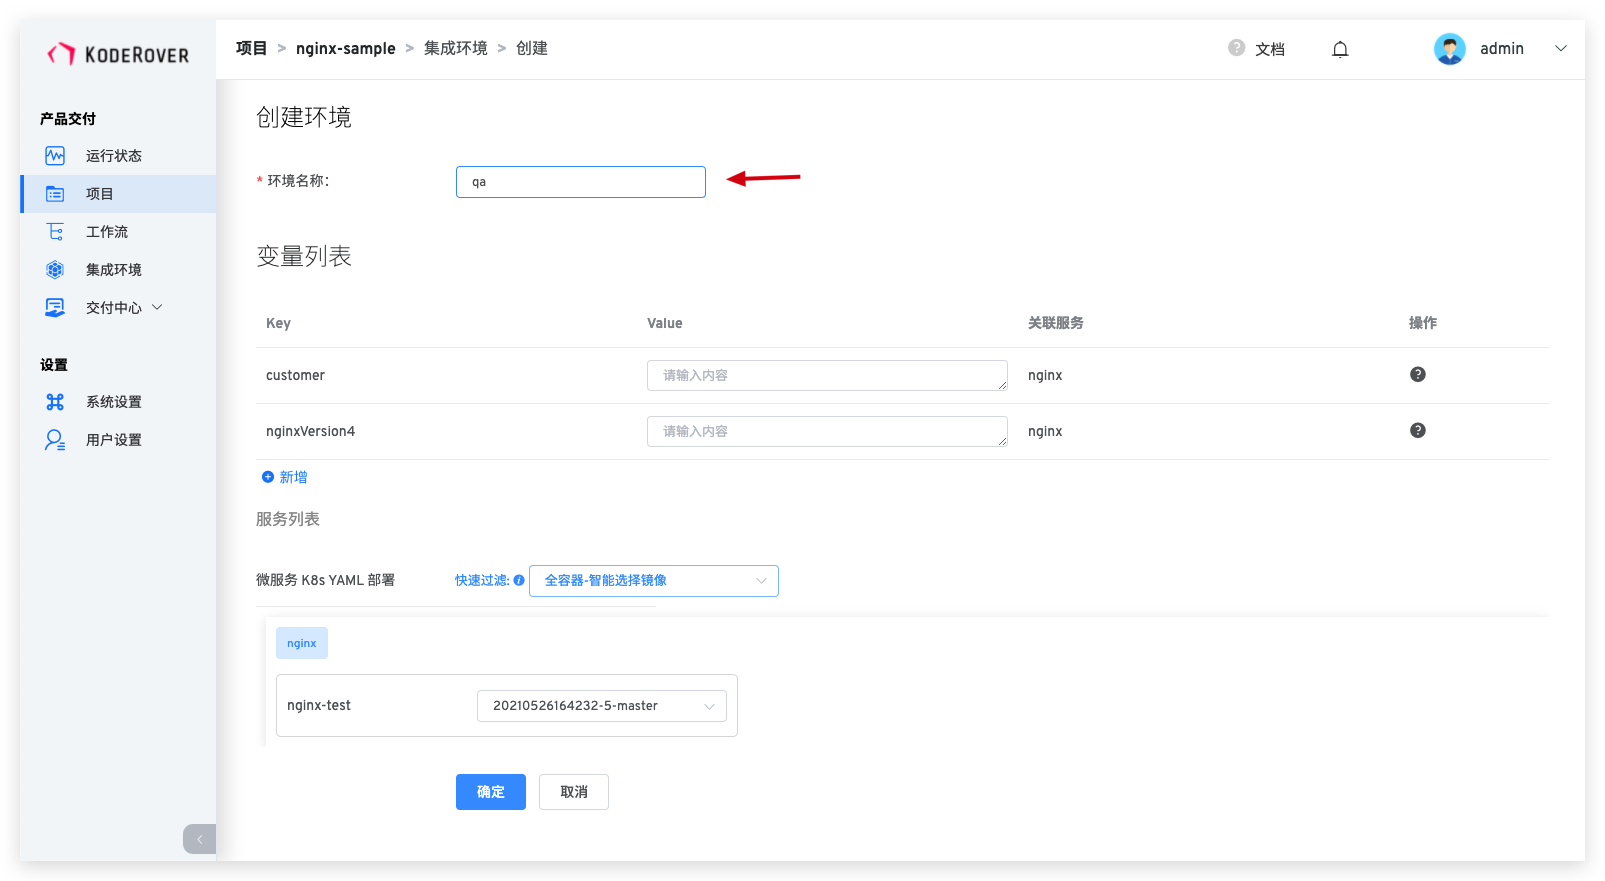
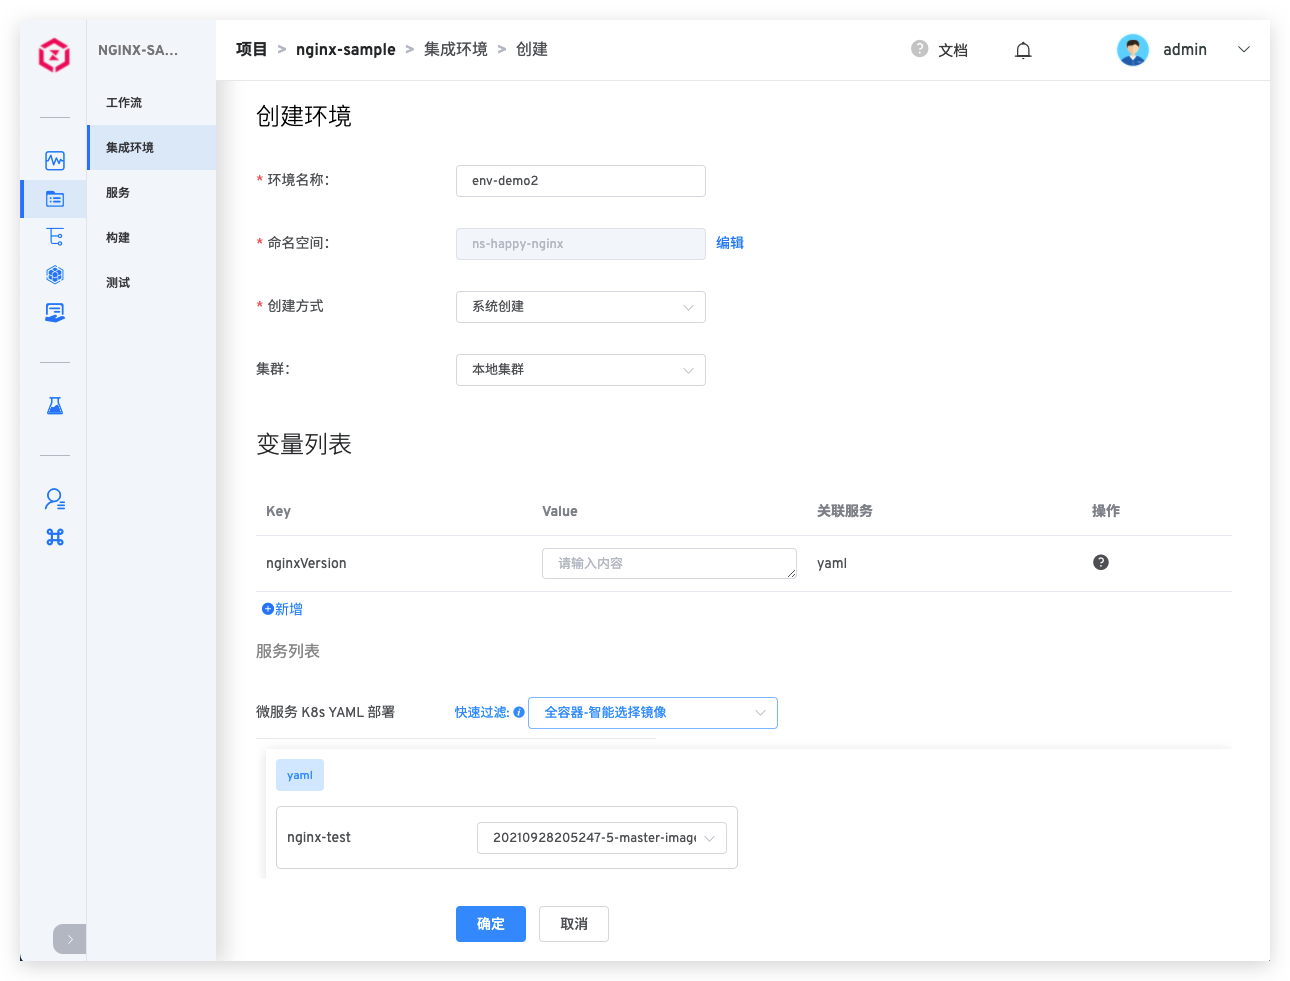
K8s YAML/Helm Chart/Host Kubernetes env descriptions

diff --git a/zh_cn/04.项目/01.项目配置/02.environment.md b/zh_cn/04.项目/01.项目配置/02.environment.md
@@ -4,48 +4,50 @@ date: 2021-03-16 17:38:54
 permalink: /project/env/
 ---
 
-本文主要介绍 Zadig 的集成环境操作。
-## 创建环境
+本文主要介绍 K8s YAML 项目中的集成环境相关操作。
+<!--
+本文主要介绍 K8s YAML 项目、Helm Chart 项目、主机项目及托管 Kubernetes 项目中的集成环境相关操作。
+-->
+
+## K8s YAML 集成环境
+
+### 创建环境
 在项目中，点击`新建环境`按钮进入创建集成环境页面。
 
 ![新建环境](../_images/create_env.png)
 ![新建环境](../_images/create_env_1.png)
 
-### 创建方式
-目前平台支持 2 种方式来创建环境：
-- 系统创建：通过在 Zadig 产品创建的服务配置新建环境
-- 托管外部环境：接入外部集群的环境，系统对托管的环境提供更换镜像，变更副本数量，查看实时日志，查看事件，调试等基本功能
+#### 命名空间
+K8s YAML 项目中不同的集成环境会使用独立的 Kubernetes 命名空间实现环境和资源的隔离。
+> Zadig 系统默认使用 `项目名-env-环境名` 作为创建集成环境时的命名空间规则，用户也可自定义命名空间。
 
-::: tip
-托管外部环境目前支持 Kubernetes 中的 Service、Deployment、Statefulset 和 Ingress 资源。<br>
-如果解除托管，不会对 Kubernetes 集群中的资源造成影响。
-:::
-
-### 变量列表
+#### 变量列表
 
 在创建项目时可以给环境中相关服务的变量赋值以区分不同的环境。
 
-### 服务列表
+#### 服务列表
 
 该部分可以让用户自定义服务所使用的镜像，与此同时，平台提供 2 个快捷选项：
 
 - `全容器-智能选择镜像`：给每个容器自动选择镜像仓库中最新的镜像版本。
 - `全容器-全部默认镜像`：给每个容器选择服务 YAML 中配置的镜像版本。
 
-### 开始创建
-点击确定按钮即可开始创建环境
+#### 开始创建
+输入环境名称等必要信息后，点击`确定`按钮即可开始创建环境。
 
 ![新建环境](../_images/create_env_2.png)
 
 ::: tip
 服务数量以及启动服务所需的资源会影响环境的创建时间，请耐心等待。
 :::
-## 查看环境
+
+### 查看环境
+
 环境创建完成后，点击不同的环境 Tab 即可切换到该环境的详情页面。
 
 ![环境详情](../_images/env_detail.png)
 
-### 基本信息
+#### 基本信息
 基本信息包括更新时间，部署环境名，环境状态。
 
 环境状态有以下几种情况：
@@ -58,7 +60,7 @@ permalink: /project/env/
 	- 容器服务正在进行更新操作，例如更新镜像，会出现短时间的服务 Unstable，当更新过程完成之后，服务状态会恢复为 Running。
 - `环境可更新`：当已创建的环境对应的环境模板有更新之后，环境处于可更新状态，有读写权限的用户可以看到`更新环境`按钮，点击按钮可对环境进行模板和配置的更新。
 
-### 基本操作
+#### 基本操作
 
 环境操作包括：
 
@@ -67,9 +69,84 @@ permalink: /project/env/
 - `删除环境`：删除当前创建的环境，环境删除后不可恢复。
 - `环境回收`：按设定的时间，定时删除环境，删除后不可恢复。
 
-## 删除环境
+### 更新环境
 
-点击基本操作中的`删除环境`按钮即可删除环境
+当环境可更新时，点击基本操作中的`更新环境`即可对环境进行更新。
+![更新 K8s 环境](../_images/update_k8s_yaml_env.png)
+
+::: tip
+当系统检测到当前项目下的服务和集成环境中不一致时，该集成环境即会处于可更新状态。导致不一致的原因包括但不限于：
+1. 服务配置发生变化。
+2. 服务编排发生变化，比如服务从项目中删除，或者给项目新加了服务。
+:::
+
+### 删除环境
+
+点击基本操作中的`删除环境`按钮并输入环境名即可删除环境。
 
 ![删除环境](../_images/delete_env.png)
 
+## Helm Chart 集成环境
+### 创建环境
+![新建 Helm Chart 环境](../_images/create_helm_chart_env_1.png)
+![新建 Helm Chart 环境](../_images/create_helm_chart_env_2.png)
+
+#### 命名空间
+Helm Chart 项目中不同的集成环境会使用独立的 Kubernetes 命名空间实现环境和资源的隔离。
+> Zadig 系统默认使用 `项目名-env-环境名` 作为创建集成环境时的命名空间规则，用户也可自定义命名空间。
+
+#### 服务列表
+> 指定义、安装和升级复杂 K8s 应用的 Helm Chart 列表。
+
+用户可选择修改指定 Helm Chart 的 values.yaml 文件中的值，对服务配置进行重新设置。Zadig 系统支持 3 种修改方式：
+- 从指定 Git 代码仓库导入 values.yaml 文件
+- 手动输入 values.yaml 文件内容
+- 手动输入 key/value 键值对，覆盖在创建 Helm Chart 服务时导入的 values.yaml 文件内容
+
+#### 开始创建
+输入环境名称等必要信息后，点击`确定`按钮即可开始创建环境。
+
+![新建 Helm Chart 环境](../_images/create_helm_chart_env_yes.png)
+
+::: tip
+服务数量以及启动服务所需的资源会影响环境的创建时间，请耐心等待。
+:::
+
+### 查看环境
+环境创建完成后，点击不同的环境 Tab 即可切换到该环境的详情页面。
+![查看 Helm Chart 环境](../_images/helm_chart_env_list.png)
+
+#### 基本信息
+基本信息包括更新时间，部署环境名，命名空间、环境状态。
+
+环境状态有以下几种情况：
+- `创建中`：正在创建。
+- `更新中`：正在更新。
+- `删除中`：正在删除。
+- `正在运行`：环境中所有服务都是正常的 Running 状态。
+- `运行不稳定`：环境中一部分服务处于 Unstable 状态，可能的情况有两种：
+	- 容器服务出现了问题。
+	- 容器服务正在进行更新操作，例如更新镜像，会出现短时间的服务 Unstable，当更新过程完成之后，服务状态会恢复为 Running。
+- `环境可更新`：当已创建的环境对应的环境模板有更新之后，环境处于可更新状态，有读写权限的用户可以看到`更新环境`按钮，点击按钮可对环境进行模板和配置的更新。
+
+#### 基本操作
+
+环境操作包括：
+
+- `更新环境变量`：对环境中的引用变量进行更新。
+- `更新环境`：当前项目-服务中的 Helm Chart 有增/删/内容变更时，集成环境中会自动出现更新环境按钮
+- `删除环境`：删除当前创建的环境，环境删除后不可恢复。
+- `环境回收`：按设定的时间，定时删除环境，删除后不可恢复。
+
+### 更新环境
+当环境可更新时，点击基本操作中的`更新环境`即可对环境进行更新。
+![更新 Helm Chart 环境](../_images/helm_chart_env_updateble.png)
+
+### 删除环境
+点击基本操作中的`删除环境`按钮并输入环境名即可删除环境。
+![更新 Helm Chart 环境](../_images/helm_chart_env_deleteble.png)
+
+<!--
+TODO
+## 托管 Kubernetes 集成环境
+-->
